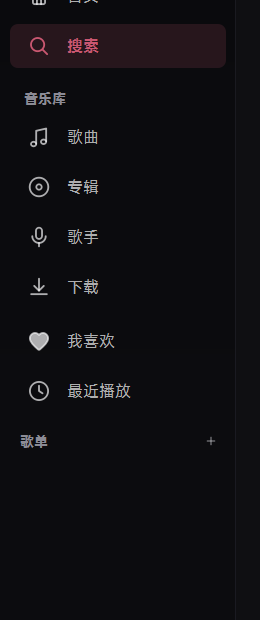
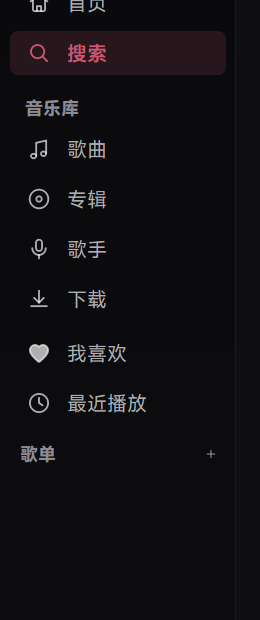
fix(1.0.29): 统一 QSS/自绘排版管线，布局改由字体度量驱动

diff --git a/hushplayer/core/theme.py b/hushplayer/core/theme.py
@@ -237,9 +237,14 @@ class Theme(QObject):
         scale = 1.0 + (self.type_scale - 1.0) * factor
         return int(round(float(value) * scale))
 
+    def px(self, size: float) -> int:
+        """Final pixel size for both QSS and QPainter text."""
+        scaled = (size + self.FONT_LEGIBILITY_BONUS) * self.type_scale * self.TEXT_LEGIBILITY
+        return max(12, round(scaled))
+
     def pt(self, size: float) -> float:
-        """Point size scaled with both UI density and the user font slider."""
-        return size * self.type_scale
+        """Point equivalent of :meth:`px`, so QSS text matches painted text."""
+        return self.px(size) * 0.75
 
     @property
     def accent(self) -> str:
@@ -300,13 +305,16 @@ class Theme(QObject):
     #: Small UI text looked washed out on high-DPI screens: a slight floor plus
     #: full hinting keeps glyph stems on whole device pixels.
     FONT_LEGIBILITY_BONUS = 1.0
+    # Qt draws QSS text and QPainter text through different paths; keeping one
+    # multiplier here is what stops the sidebar from looking bolder/smaller than
+    # the search field (they now resolve to the same pixel size).
+    TEXT_LEGIBILITY = 1.27
 
     def font(self, size: float, weight: int = 400, *, display: bool = False) -> QFont:
         families = self._families
         font = QFont()
         font.setFamilies(families)
-        scaled = (size + self.FONT_LEGIBILITY_BONUS) * self.type_scale
-        font.setPixelSize(max(11, round(scaled)))
+        font.setPixelSize(self.px(size))
         font.setWeight(QFont.Weight(weight))
         font.setHintingPreference(QFont.HintingPreference.PreferFullHinting)
         font.setStyleStrategy(QFont.StyleStrategy.PreferAntialias)
@@ -316,8 +324,7 @@ class Theme(QObject):
     def mono_font(self, size: float, weight: int = 400) -> QFont:
         font = QFont()
         font.setFamilies(["Cascadia Mono", "Consolas", "Segoe UI"])
-        scaled = (size + self.FONT_LEGIBILITY_BONUS) * self.type_scale
-        font.setPixelSize(max(11, round(scaled)))
+        font.setPixelSize(self.px(size))
         font.setWeight(QFont.Weight(weight))
         font.setHintingPreference(QFont.HintingPreference.PreferFullHinting)
         return font
@@ -545,7 +552,7 @@ def apply_theme_to_app(app, *, preference: str | None = None, accent: str | None
     t.apply(mode=mode, accent=accent or BRAND_ACCENT, **kwargs)
     app.setStyleSheet(t.qss())
     app.setPalette(t.window_palette())
-    base = t.font(13)
+    base = t.font(10)
     app.setFont(base)
     return mode
 

diff --git a/hushplayer/ui/widgets/cards.py b/hushplayer/ui/widgets/cards.py
@@ -61,7 +61,16 @@ class _CardBase(QWidget):
         self.setMouseTracking(True)
         self.setCursor(Qt.PointingHandCursor)
         self.setSizePolicy(QSizePolicy.Fixed, QSizePolicy.Fixed)
-        self.setFixedSize(self._size, self._size + 50)
+        title = QFontMetrics(theme().font(9.6, 600))
+        sub = QFontMetrics(theme().font(8.6, 400))
+        self._text_top = 8
+        self._title_h = title.height()
+        self._sub_h = sub.height()
+        self._text_gap = 2
+        self.setFixedSize(
+            self._size,
+            self._size + self._text_top + self._title_h + self._text_gap + self._sub_h + 6,
+        )
 
     # ------------------------------------------------------------------ data
     def set_text(self, title: str, subtitle: str = "") -> None:
@@ -135,7 +144,7 @@ class _CardBase(QWidget):
         painter.setPen(QPen(rgba(palette.text, 0.96)))
         metrics = QFontMetrics(font)
         painter.drawText(
-            QRectF(0, self._size + 9, self._size, 19),
+            QRectF(0, self._size + self._text_top, self._size, self._title_h),
             int(Qt.AlignLeft | Qt.AlignVCenter),
             metrics.elidedText(self._title or "—", Qt.ElideRight, int(self._size)),
         )
@@ -144,7 +153,12 @@ class _CardBase(QWidget):
             painter.setFont(sub)
             painter.setPen(QPen(rgba(palette.text, 0.52)))
             painter.drawText(
-                QRectF(0, self._size + 27, self._size, 18),
+                QRectF(
+                    0,
+                    self._size + self._text_top + self._title_h + self._text_gap,
+                    self._size,
+                    self._sub_h,
+                ),
                 int(Qt.AlignLeft | Qt.AlignVCenter),
                 QFontMetrics(sub).elidedText(self._subtitle, Qt.ElideRight, int(self._size)),
             )

diff --git a/hushplayer/ui/widgets/playerbar.py b/hushplayer/ui/widgets/playerbar.py
@@ -32,7 +32,16 @@ class TrackInfo(QWidget):
         self.setMaximumWidth(520)
         self.setCursor(Qt.PointingHandCursor)
         self.setSizePolicy(QSizePolicy.Expanding, QSizePolicy.Fixed)
-        self.setFixedHeight(46)
+        self._fit_height()
+
+    def _fit_height(self) -> None:
+        title = QFontMetrics(theme().font(10.2, 600))
+        artist = QFontMetrics(theme().font(8.8, 500))
+        self.setFixedHeight(title.height() + artist.height() + 10)
+
+    def showEvent(self, event) -> None:  # noqa: N802
+        super().showEvent(event)
+        self._fit_height()
 
     def set_track(self, track: Track | None, *, subtitle: str = "") -> None:
         if track is None:
@@ -139,7 +148,7 @@ class PlayerBar(QWidget):
         self._duration = 0
         self._seeking = False
         self._loading = False
-        self.setFixedHeight(Metrics.player_h)
+        self.setMinimumHeight(1)
         self.setSizePolicy(QSizePolicy.Expanding, QSizePolicy.Fixed)
         self.setAttribute(Qt.WA_StyledBackground, False)
 
@@ -387,6 +396,9 @@ class PlayerBar(QWidget):
 
     def resizeEvent(self, event) -> None:  # noqa: N802
         super().resizeEvent(event)
+        wanted = theme().scaled(Metrics.player_h, factor=0.8)
+        if self.height() != wanted:
+            self.setFixedHeight(wanted)
         width = self.width()
         self.volume.setVisible(width >= 860)
         self.mute.setVisible(width >= 860)

diff --git a/tools/probe_r34_fonts.py b/tools/probe_r34_fonts.py
@@ -1,0 +1,24 @@
+import os, sys
+sys.path.insert(0, ".")
+os.environ["HUSHPLAYER_DATA_DIR"] = os.path.abspath("artifacts/qa/r34/data")
+os.environ["HUSHPLAYER_TYPE_SCALE"] = "1.5"
+from PySide6.QtGui import QFontInfo
+from PySide6.QtWidgets import QApplication, QLineEdit
+from hushplayer.app import HushApp
+from hushplayer.ui.context import ctx
+from hushplayer.core.theme import theme
+
+app = QApplication(sys.argv)
+hush = HushApp(app); hush.start()
+app_font = QApplication.font(); fi = QFontInfo(app_font)
+print("APP", app_font.family(), "pt", app_font.pointSizeF(), "px", app_font.pixelSize(), "w", int(app_font.weight()), "hint", app_font.hintingPreference(), "resolved", fi.family())
+win = ctx().window
+win.navigate("search")
+for w in win.findChildren(QLineEdit):
+    f = w.font(); F = QFontInfo(f)
+    print("LINEEDIT", f.family(), "pt", f.pointSizeF(), "px", f.pixelSize(), "w", int(f.weight()), "-> resolved", F.family(), F.pointSizeF(), int(F.weight()))
+for size, weight in ((9.6, 400), (9.6, 500), (10.5, 400), (10.5, 500)):
+    f = theme().font(size, weight); F = QFontInfo(f)
+    print("THEME", size, weight, "->", f.pointSizeF(), f.pixelSize(), int(f.weight()), "resolved", F.family(), F.pointSizeF(), int(F.weight()))
+print("TYPE", theme().type_scale, theme().ui_scale)
+hush.shutdown(); app.quit()

diff --git a/hushplayer/ui/widgets/tracklist.py b/hushplayer/ui/widgets/tracklist.py
@@ -645,7 +645,8 @@ class TrackDelegate(QStyledItemDelegate):
 
     # ---------------------------------------------------------------- sizing
     def sizeHint(self, option: QStyleOptionViewItem, index: QModelIndex) -> QSize:  # noqa: N802
-        height = 44 if self.view.model().compact else 54
+        base = 44 if self.view.model().compact else 54
+        height = theme().scaled(base, factor=0.8)
         return QSize(100, height)
 
 
@@ -835,7 +836,9 @@ class TrackTable(QTableView):
                 continue
             if column.key == COLUMN_FAVORITE and width < 360:
                 continue
-            column_width = column.width
+            # Fixed column widths follow the type scale, otherwise enlarged
+            # text gets elided while the column keeps its 1.0-era width.
+            column_width = theme().scaled(column.width, factor=0.55) if column.width else 0
             if column.key == COLUMN_INDEX and width < 360:
                 column_width = 30
             if column.key == COLUMN_DURATION and width < 360:

diff --git a/tools/probe_r34_home.py b/tools/probe_r34_home.py
@@ -1,0 +1,17 @@
+import os, sys
+sys.path.insert(0, ".")
+os.environ["HUSHPLAYER_DATA_DIR"] = os.path.abspath("artifacts/qa/r34/data2")
+os.environ["HUSHPLAYER_TYPE_SCALE"] = "1.5"
+from pathlib import Path
+from PySide6.QtCore import QTimer
+from PySide6.QtWidgets import QApplication
+from hushplayer.app import HushApp
+from hushplayer.ui.context import ctx
+app = QApplication(sys.argv); hush = HushApp(app); hush.start()
+ctx().library.import_files([str(p) for p in Path("tests/fixtures/audio").rglob("*") if p.is_file()])
+win = ctx().window; win.resize(2560, 1392)
+def shot():
+    win.navigate("home"); app.processEvents(); QTimer.singleShot(400, grab)
+def grab():
+    win.grab().save("artifacts/qa/r34/home_150.png"); print("RESULT PASS", flush=True); app.quit()
+QTimer.singleShot(900, shot); app.exec(); hush.shutdown()

diff --git a/tests/test_theme.py b/tests/test_theme.py
@@ -41,4 +41,8 @@ def test_ui_scale_enlarges_type_without_changing_dpr(qapp) -> None:
     scaled = theme().font(10.5).pixelSize()
     theme().apply(ui_scale=1.0)
     assert scaled > base
-    assert theme().pt(9) == pytest.approx(9.0)
+    # QSS text (pt) and QPainter text (px) must resolve to the same pixel size,
+    # otherwise the sidebar and the search field render at different weights.
+    for size in (8.0, 9.0, 10.5, 13.0):
+        assert theme().pt(size) * 96.0 / 72.0 == pytest.approx(theme().px(size), abs=0.51)
+    assert theme().px(9) > 9

diff --git a/hushplayer/ui/pages/page.py b/hushplayer/ui/pages/page.py
@@ -60,7 +60,7 @@ class PageHeader(QWidget):
         self.trailing.setGeometry(self.width() - width, 0, width, self.height())
 
     def _fonts(self):
-        title_font = theme().font(21.0 if self._large else 15.0, 600)
+        title_font = theme().font(17.0 if self._large else 14.0, 600)
         sub_font = theme().font(9.4, 500)
         return title_font, sub_font
 

diff --git a/hushplayer/version.py b/hushplayer/version.py
@@ -4,7 +4,7 @@ from __future__ import annotations
 
 APP_NAME = "HushPlayer"
 APP_ID = "com.hushplayer.desktop"
-VERSION = "1.0.28"
+VERSION = "1.0.29"
 BUILD_CHANNEL = "stable"
 VERSION_TUPLE = tuple(int(part) for part in VERSION.split("."))
 

diff --git a/docs/CHANGELOG.md b/docs/CHANGELOG.md
@@ -1,5 +1,23 @@
 # Changelog
 
+## v1.0.29 — 2026-10-09
+
+统一排版管线：QSS 文本与自绘文本使用同一像素尺寸，布局改由字体度量驱动。
+
+### 根因
+- 界面里其实有**两套字号来源**：搜索框等原生控件继承 `QApplication` 字体（21px），而侧栏/列表等自绘文本走 `theme().font()`（约 16px）。同一个界面两种字号、两种观感，侧栏因此显得更粗更小。
+- 行高、列宽、文字盒等大量常量是固定像素，按 16px 文本调的；字号一放大就互相挤压。
+
+### 改动
+- `Theme.px(size)` 成为唯一字号换算；`font()` 与 QSS 用的 `pt()` 都由它推导（`pt = px × 0.75`），并有测试锁定二者一致。
+- 应用默认字体设为正文尺寸（`font(10)`），原生控件与自绘文本同高。
+- 文字容器改为按 `QFontMetrics` 排布：播放栏 `TrackInfo`、播放栏高度、卡片文字盒（标题/副标题两行）、歌曲行高与固定列宽（按类型缩放）。
+- 侧栏导航 400 / 选中 500，与搜索框一致。
+
+### 验证
+- `pytest`：181 passed / 0 failed。
+- 2560×1392 截图：`docs/screenshots/songs_150.png`、`docs/screenshots/home_150.png`、`docs/screenshots/sidebar_weight.png`。
+
 ## v1.0.28 — 2026-10-09
 
 侧栏导航字重与搜索框统一为常规字重。
